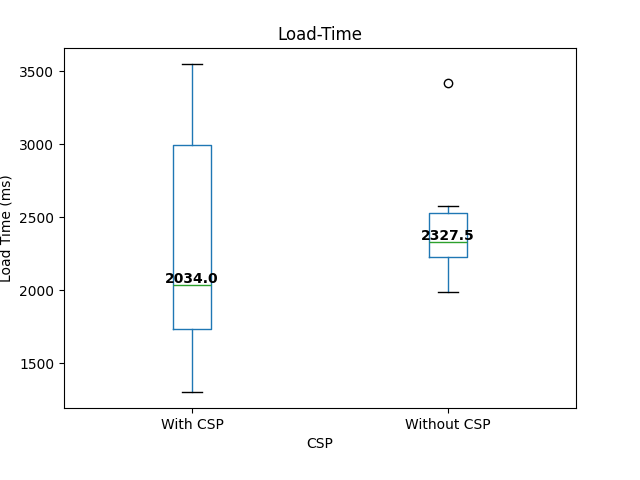
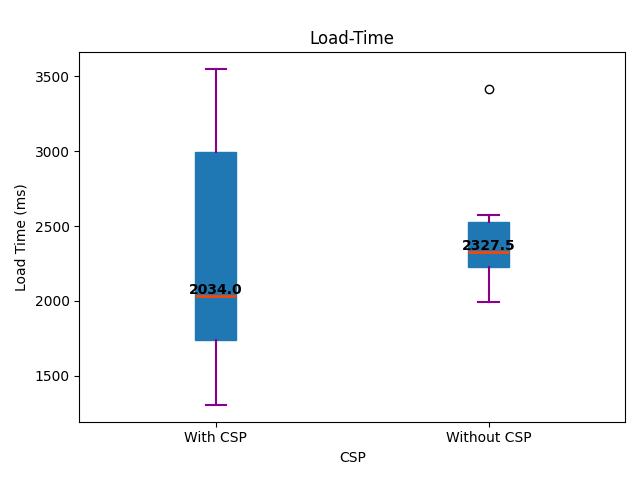
some minor changes

diff --git a/csp_gen.js b/csp_gen.js
@@ -158,7 +158,6 @@ async function csp_generator(baseURL, urlList) {
         "connect-src": Array.from(csp_list['connect-src']).join(' '),
         "manifest-src": Array.from(csp_list['manifest-src']).join(' '),
         "worker-src": Array.from(csp_list['worker-src']).join(' '),
-        "require-trusted-types-for": "'script'",
         "report-uri": '/csp-report-endpoint'
     };
 

diff --git a/myServer/public/css/styles.css b/myServer/public/css/styles.css
@@ -1,0 +1,6 @@
+.container{
+    display: flex;
+    flex-direction: column;
+    justify-content: center;
+    align-items: center;
+}

diff --git a/myServer/results_graph.py b/myServer/results_graph.py
@@ -2,10 +2,12 @@ import pandas as pd
 import numpy as np
 import matplotlib.pyplot as plt
 import json
+import matplotlib.cm as cm
+import mplcursors
 
 directives = {}
 
-with open('./csp-violation.log','r') as file:
+with open('./csp-violation.log', 'r') as file:
     for line in file:
         line = line.strip()
         if line:
@@ -15,19 +17,21 @@ with open('./csp-violation.log','r') as file:
                 directive = 'script-src'
             elif data['csp-report']['violated-directive'] == 'style-src-elem':
                 directive = 'style-src'
-            else: 
+            else:
                 directive = data['csp-report']['violated-directive']
             
             if directive in directives:
                 directives[directive] += 1
             else:
                 directives[directive] = 1
-                
+
 directive = list(directives.keys())
 counts = list(directives.values())
 
-plt.figure(figsize=(10,6))
-plt.bar(directive,counts, color='skyblue')
+colors = cm.get_cmap('tab20', len(directive))(range(len(directive)))
+
+plt.figure(figsize=(10, 6))
+bars = plt.bar(directive, counts, color=colors)
 plt.xlabel('Violated Directives')
 plt.ylabel('Count of Violations')
 plt.title('Count of CSP Violations by Directive')
@@ -36,29 +40,42 @@ plt.grid(axis='y', linestyle='--', alpha=0.7)
 
 for i, count in enumerate(counts):
     plt.text(i, count + 0.1, str(count), ha='center', va='bottom')
-    
+
 plt.tight_layout()
+
+mplcursors.cursor(bars)
 
 plt.savefig('./csp_violations_by_directive.png')
 plt.show()
 
 
-
-
 data = pd.read_csv('./load_time.csv')
 
-plt.figure(figsize=(10,6))
-boxplot = data.boxplot(by="CSP", column=['Load-Time'], grid=False)
+plt.figure(figsize=(10, 6))
+ax = data.boxplot(by="CSP", column=['Load-Time'], grid=False, patch_artist=True)
 plt.suptitle('')
 plt.xlabel('CSP')
 plt.ylabel('Load Time (ms)')
+
+colors = ['#FF9999', '#66B2FF', '#99FF99', '#FFCC99', '#FFD700', '#FF6347', '#8A2BE2', '#00CED1']
+
+for patch, color in zip(ax.artists, colors):
+    patch.set_facecolor(color)
+
+for whisker in ax.lines[::2]:
+    whisker.set(color='#8B008B', linewidth=1.5)
+for cap in ax.lines[1::2]:
+    cap.set(color='#8B008B', linewidth=1.5)
+for median in ax.lines[4::6]:
+    median.set(color='#FF4500', linewidth=2)
 
 medians = data.groupby(['CSP'])['Load-Time'].median().values
 median_labels = [str(np.round(s, 2)) for s in medians]
 
 pos = range(len(medians))
-for tick, label in zip(pos, boxplot.get_xticklabels()):
-    plt.text(pos[tick]+1, medians[tick] + 15, median_labels[tick], horizontalalignment='center', color='black', weight='semibold')
+for tick, label in zip(pos, ax.get_xticklabels()):
+    plt.text(pos[tick] + 1, medians[tick] + 15, median_labels[tick], horizontalalignment='center', color='black', weight='semibold')
+
+plt.tight_layout()
 plt.savefig('./page_load_times_boxplot.png')
 plt.show()
-
